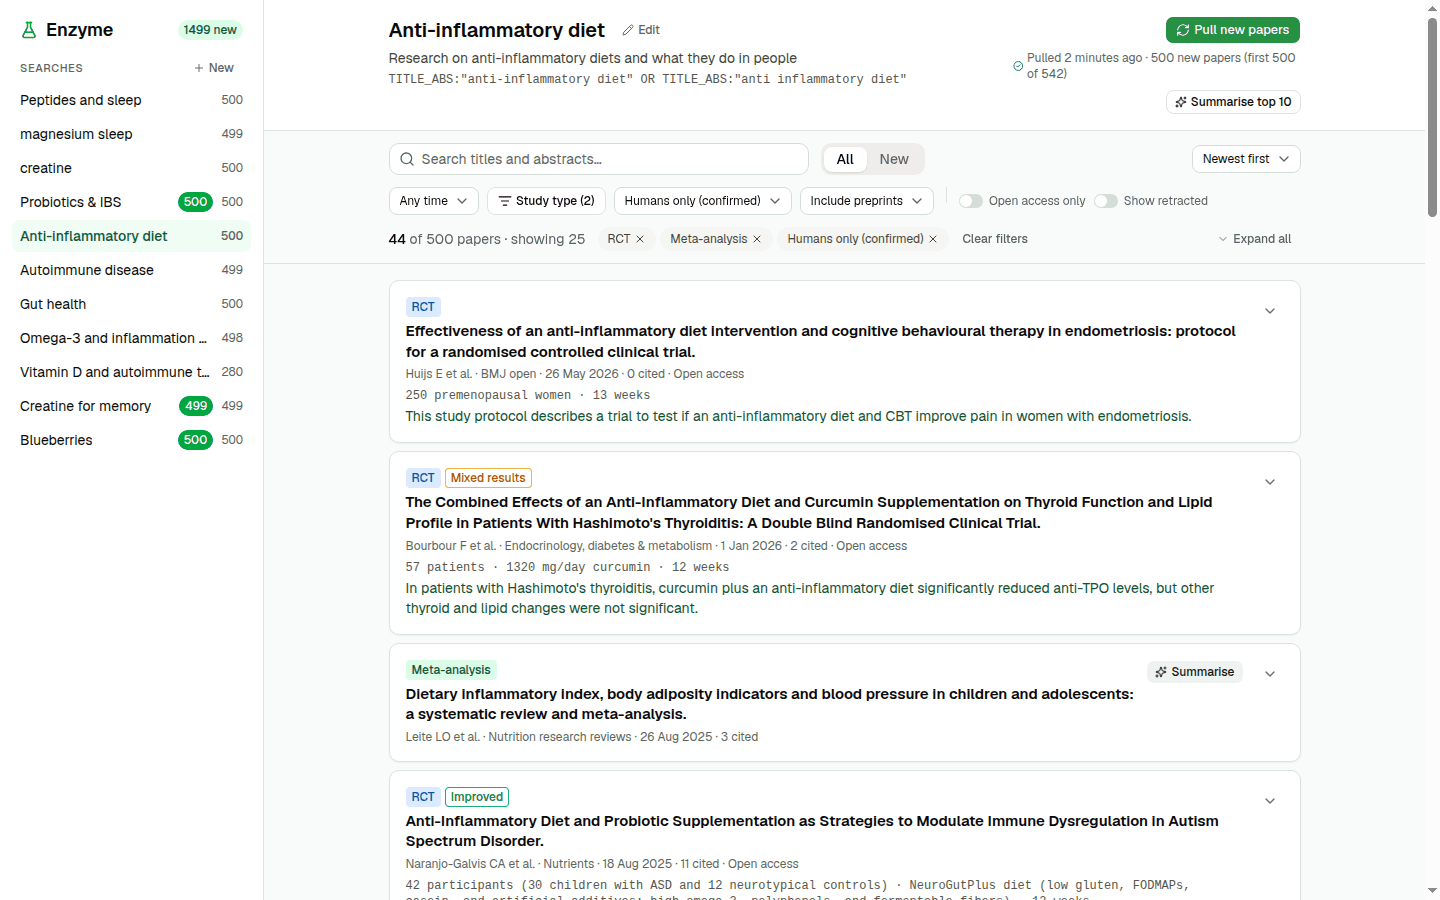
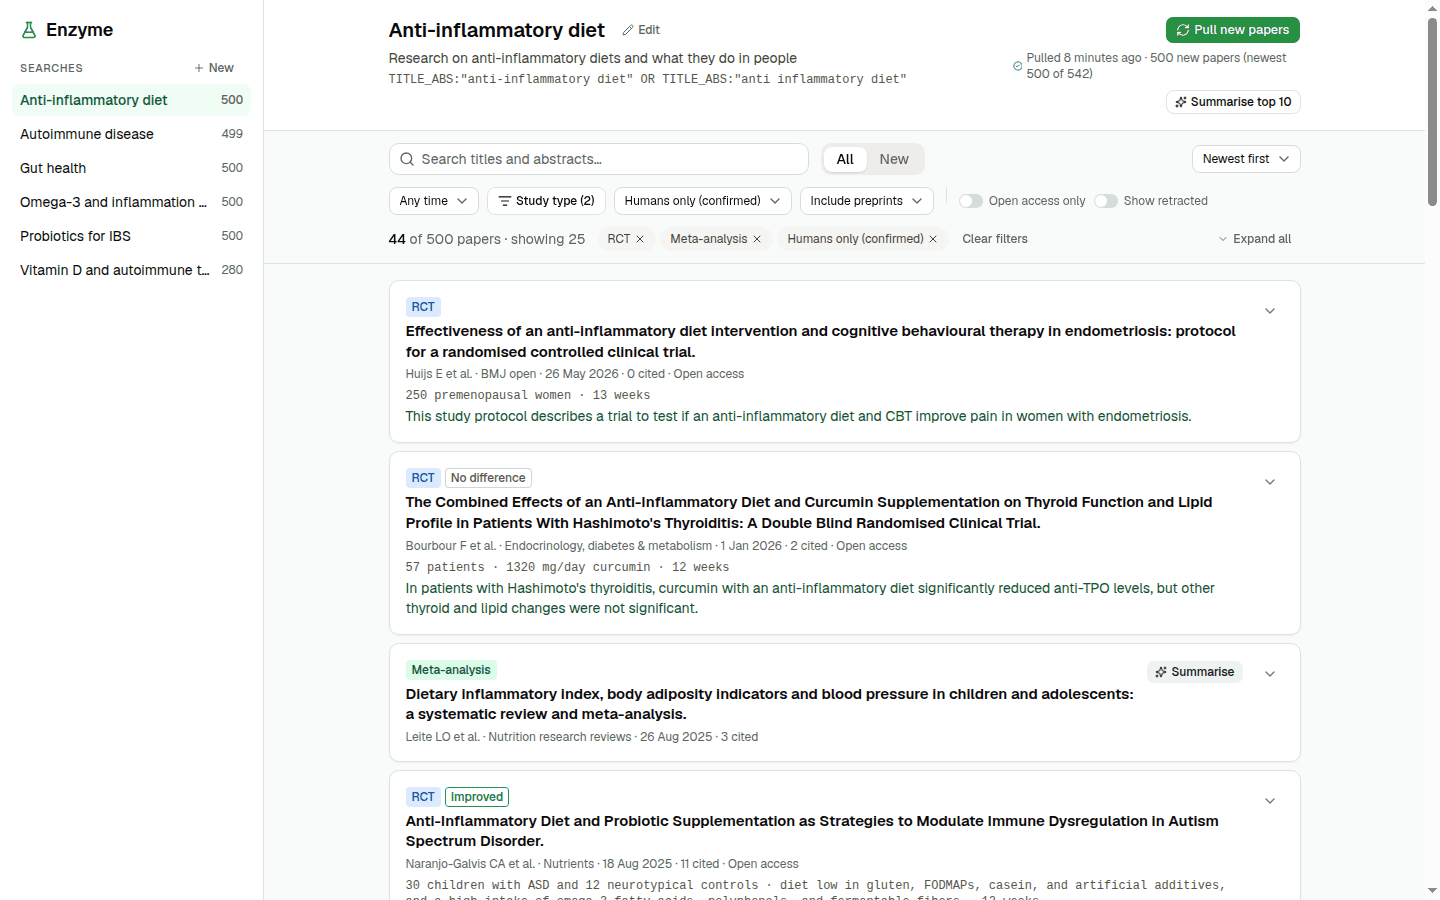
Pull the newest papers and retake the README screenshots
A pull used to take Europe PMC's first 500 results in relevance order,
so for a search with more hits "Pull new papers" kept refetching the
same set and could miss papers published since. searchAll now sends
sort=FIRST_PDATE_D desc, which orders by firstPublicationDate and keeps
that order across cursorMark pages (checked live). P_PDATE_D is the
print date and doesn't match. The hit count used by Suggest query still
sends no sort.

The pull status and the search dialog say "newest 500", and the README
explains the order and how to reach older papers with a date range.

The three README screenshots are retaken from a fresh database seeded
with her six searches, so the sidebar shows only those.

diff --git a/apps/server/src/sources/europepmc.ts b/apps/server/src/sources/europepmc.ts
@@ -10,11 +10,21 @@ import type { FullTextUrl, PaperInput } from "@enzyme/shared";
  * - Malformed query syntax (`AND`, unknown fields, unbalanced brackets) is NOT an error:
  *   it returns 0 hits or is silently repaired. A bad query can't be told from a narrow one.
  * - An unrecognised cursorMark returns HTTP 503.
+ * - Without `sort` results come in relevance order. `sort=FIRST_PDATE_D desc` orders by
+ *   `firstPublicationDate`, newest first, and cursorMark paging keeps that order (verified
+ *   live 2026-10-04). `P_PDATE_D` is the print date and does not match `firstPublicationDate`.
  */
 
 export const EUROPE_PMC_SEARCH_URL = "https://www.ebi.ac.uk/europepmc/webservices/rest/search";
 const MAX_QUERY_LENGTH = 1500;
 const MAX_PAGE_SIZE = 1000;
+
+/** `relevance`: Europe PMC's default order. `newest`: by first publication date, newest first. */
+export type SearchSort = "relevance" | "newest";
+const SORT_PARAM: Record<SearchSort, string | null> = {
+  relevance: null,
+  newest: "FIRST_PDATE_D desc",
+};
 
 export type EuropePmcErrorKind = "invalid_request" | "upstream";
 
@@ -48,6 +58,8 @@ export interface SearchOptions {
   pageSize?: number;
   /** Adds `HAS_ABSTRACT:y` unless the query already mentions it. Default `true`. */
   requireAbstract?: boolean;
+  /** Default `relevance` (no sort parameter; cheapest for a hit count). */
+  sort?: SearchSort;
 }
 
 export interface SearchAllOptions {
@@ -55,6 +67,8 @@ export interface SearchAllOptions {
   maxRecords?: number;
   pageSize?: number;
   requireAbstract?: boolean;
+  /** Default `newest`, so a capped pull keeps the most recent papers. */
+  sort?: SearchSort;
   /** Called after each page, e.g. for pull progress. */
   onPage?: (progress: { hitCount: number; fetched: number }) => void;
 }
@@ -150,6 +164,8 @@ export function createEuropePmcClient(options: EuropePmcClientOptions = {}): Eur
       pageSize: String(pageSize),
       cursorMark,
     });
+    const sort = SORT_PARAM[opts.sort ?? "relevance"];
+    if (sort) params.set("sort", sort);
     const body = asObject(await getJson(`${baseUrl}?${params}`));
 
     // Errors arrive with HTTP 200 and an error body instead of results.
@@ -186,6 +202,7 @@ export function createEuropePmcClient(options: EuropePmcClientOptions = {}): Eur
         cursorMark,
         pageSize: Math.min(pageSize, maxRecords - fetched),
         requireAbstract: opts.requireAbstract,
+        sort: opts.sort ?? "newest",
       });
       const records = page.records.slice(0, maxRecords - fetched);
       fetched += records.length;

diff --git a/apps/server/src/sources/europepmc.test.ts b/apps/server/src/sources/europepmc.test.ts
@@ -193,6 +193,17 @@ describe("search", () => {
     expect(result.records[0]?.raw).toEqual(medline);
   });
 
+  it("sends a newest-first sort only when asked", async () => {
+    const { client, requestedParams } = testClient([
+      jsonResponse(page(["1"])),
+      jsonResponse(page(["1"])),
+    ]);
+    await client.search("sleep", { sort: "newest" });
+    await client.search("sleep", { sort: "relevance" });
+    expect(requestedParams(0).get("sort")).toBe("FIRST_PDATE_D desc");
+    expect(requestedParams(1).has("sort")).toBe(false);
+  });
+
   it("surfaces Europe PMC's error message, which arrives with HTTP 200", async () => {
     const { client } = testClient([
       jsonResponse({ errCode: 404, errMsg: "No search criteria provided." }),
@@ -250,6 +261,10 @@ describe("searchAll", () => {
 
     expect(records.map((r) => r.paper.sourceId)).toEqual(["1", "2", "3", "4", "5", "6", "7"]);
     expect([0, 1, 2].map((i) => requestedParams(i).get("cursorMark"))).toEqual(["*", "c1", "c2"]);
+    // Pulls keep the newest papers, so every page asks for the same newest-first order.
+    expect([0, 1, 2].map((i) => requestedParams(i).get("sort"))).toEqual(
+      Array(3).fill("FIRST_PDATE_D desc"),
+    );
     expect(onPage).toHaveBeenLastCalledWith({ hitCount: 7, fetched: 7 });
   });
 
@@ -263,6 +278,12 @@ describe("searchAll", () => {
     expect(records).toHaveLength(5);
     expect(fetch).toHaveBeenCalledTimes(2);
     expect(requestedParams(1).get("pageSize")).toBe("2");
+  });
+
+  it("can page in relevance order instead", async () => {
+    const { client, requestedParams } = testClient([jsonResponse(page(["1"]))]);
+    await collect(client.searchAll("sleep", { sort: "relevance" }));
+    expect(requestedParams(0).has("sort")).toBe(false);
   });
 
   it("stops on an empty page", async () => {

diff --git a/apps/web/src/features/searches/search-dialog.tsx b/apps/web/src/features/searches/search-dialog.tsx
@@ -197,7 +197,7 @@ function SearchForm({
           ))}
         </div>
         <p className="text-muted-foreground text-xs">
-          Only papers with an abstract are kept. Up to 500 papers per pull.
+          Only papers with an abstract are kept. Each pull keeps the newest 500.
         </p>
       </div>
 

diff --git a/apps/web/src/features/feed/pull-status.tsx b/apps/web/src/features/feed/pull-status.tsx
@@ -46,7 +46,7 @@ export function PullStatus({
           {run.hitCount !== null &&
             run.target !== null &&
             run.hitCount > run.target &&
-            ` (first ${run.target} of ${run.hitCount})`}
+            ` (newest ${run.target} of ${run.hitCount})`}
         </p>
       )}
 

diff --git a/README.md b/README.md
@@ -22,8 +22,8 @@ facts she can check against the abstract herself rather than a summary she has t
 ## What it does
 
 - **Saved searches for her topics.** Each search is a Europe PMC query (Europe PMC includes PubMed
-  and preprints). "Pull papers" fetches up to 500 matching papers with an abstract into a local
-  library, with live progress. Pull again later and only the new papers are marked **New**.
+  and preprints). "Pull papers" fetches the newest 500 matching papers with an abstract into a
+  local library, with live progress. Pull again later and only the new papers are marked **New**.
 - **Describe a topic in plain English, get a query.** She doesn't need to know Europe PMC's query
   syntax. "Suggest query" asks an AI agent to write one; the agent checks real hit counts with a
   tool and narrows or widens until the search returns a readable number of papers (50 to 5,000).
@@ -42,9 +42,9 @@ facts she can check against the abstract herself rather than a summary she has t
 - **"Summarise top 10"** summarises the first ten papers in the current filtered feed, four at a
   time, so the feed fills in with sample sizes, doses and takeaways in under a minute.
 
-![An expanded paper: plain-language summary, takeaway, the 12 key facts, and the abstract with the quote for the hovered fact ("Dose / regimen") highlighted](docs/study-card.png)
+![An expanded paper (an RCT of curcumin with an anti-inflammatory diet in Hashimoto's thyroiditis): plain-language summary, takeaway, the 12 key facts, and the abstract with the quote for the hovered fact ("Dose / regimen") highlighted](docs/study-card.png)
 
-<img src="docs/suggest-query.png" width="460" alt="The New search dialog: a plain-English description, the suggested Europe PMC query and its hit count (169 papers)">
+<img src="docs/suggest-query.png" width="460" alt="The New search dialog: the question &quot;does curcumin reduce inflammation in rheumatoid arthritis?&quot;, the suggested Europe PMC query and its hit count (212 papers)">
 
 ## Quick start
 
@@ -73,7 +73,7 @@ enough: the free tier serves Gemma.
 `pnpm seed` adds these searches with fixed queries, so it is fast, gives the same result every time
 and needs no key. The queries were written by the Suggest query agent and checked by hand. Running
 it again skips any search that already exists by name or by query. `pnpm seed --pull` also pulls
-every search (about 40 seconds for all six).
+every search (about 35 seconds for all six).
 
 | Search | Europe PMC query | Papers (4 Oct 2026) |
 |---|---|---|
@@ -84,8 +84,8 @@ every search (about 40 seconds for all six).
 | Probiotics for IBS | `(TITLE_ABS:probiotic* OR TITLE_ABS:probiotics) AND (TITLE_ABS:"irritable bowel syndrome" OR TITLE_ABS:IBS)` | 1,380 |
 | Vitamin D and autoimmune thyroid | vitamin D / cholecalciferol AND autoimmune thyroid disease / Hashimoto / Graves, in title or abstract | 280 |
 
-Counts are papers with an abstract. A pull keeps the first 500 in Europe PMC's relevance order.
-The full queries are in
+Counts are papers with an abstract. A pull keeps the newest 500, by first publication date, so
+pulling again later picks up papers published since. The full queries are in
 [`apps/server/src/db/seed.ts`](apps/server/src/db/seed.ts).
 
 ## Configuration
@@ -188,8 +188,9 @@ works and its caveats, is in [`bench/results/gemma-26b-vs-31b.md`](bench/results
   The paper shows an error and "Summarise" can be pressed again; for some papers it fails every time.
 - Pulls run inside the API process. A pull that is running when the server stops is marked failed
   on the next start; press "Pull new papers" again.
-- A pull takes the first 500 papers in Europe PMC's relevance order, not the newest 500. For a
-  search with more hits than that, narrow the query.
+- A pull keeps only the newest 500 papers. For a search with more hits than that, older papers
+  are never fetched; narrow the query, or add a date range such as
+  `AND FIRST_PDATE:[2018-01-01 TO 2019-12-31]` to reach them.
 - It is a local app for one person: no accounts, no deployment.
 
 ## Hacktoberfest
